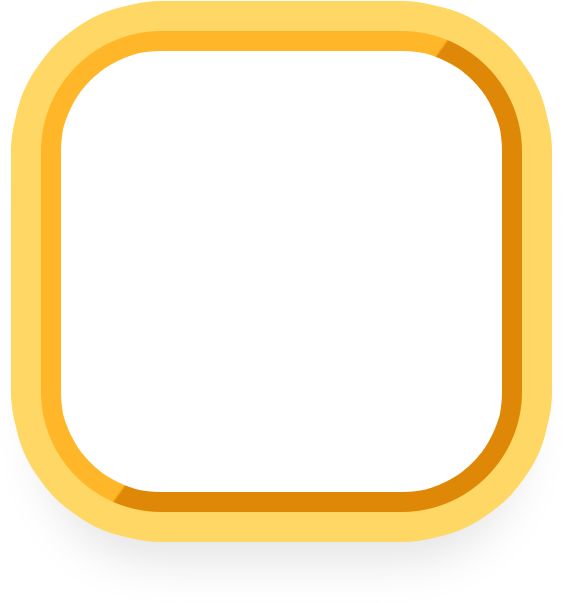
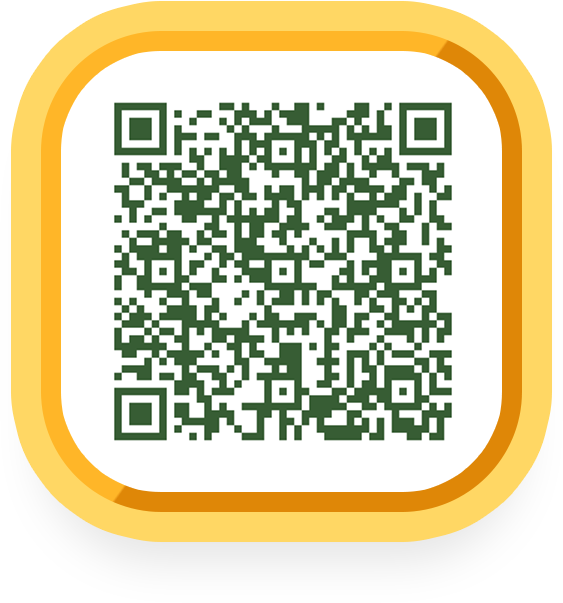
Feat: add download url
Former-commit-id: 0ced8c52719a54553f0b90475b175d9bb8f6de30

Changed region(s): [[0.1812, 0.1493, 0.8153, 0.7463]]

diff --git a/backend/snapstory/src/main/resources/static/index.html b/backend/snapstory/src/main/resources/static/index.html
@@ -20,13 +20,13 @@
     <img id="block1" src="web-main.png" alt="Sna!pstory" style="margin-top: 5%; margin-bottom: 5%;" >
     <div id="block2" style="
         display: flex;
-        /*width: 80%;*/
         flex-flow: column nowrap;
         align-items: center;
         justify-content: center;
     ">
         <img src="web-qrbox.png" alt="Sna!pstory QRcode" style="width: 100%">
-        <a href ="" style="width: 90%"><img src="web-download.png" alt="Sna!pstory Download" style="width: 100%"></a>
+        <a href ="https://drive.google.com/u/0/uc?id=1Ba0I8h5Ct-w327RBIQkVWwt4njTnRi16&export=download"
+           style="width: 90%"><img src="web-download.png" alt="Sna!pstory Download" style="width: 100%"></a>
     </div>
 </div>
 
